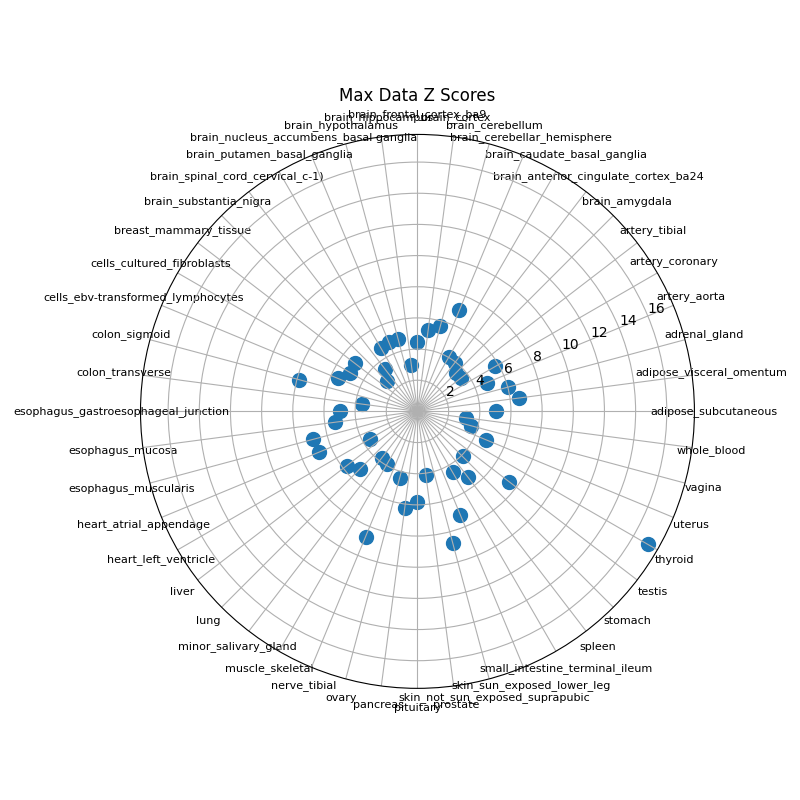
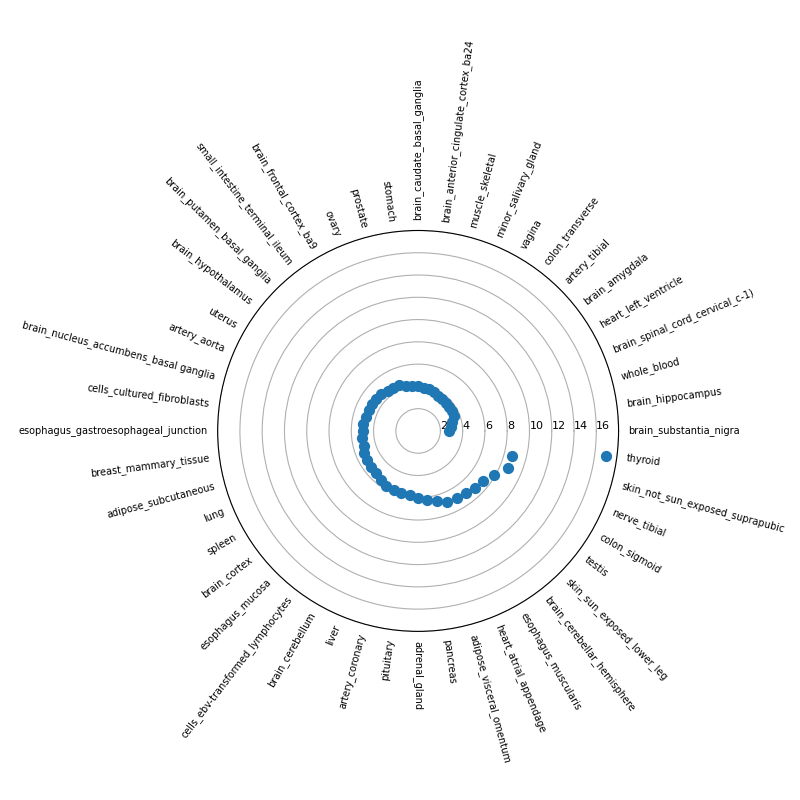
z-score circle plots

diff --git a/src/age_indexing/z_score_visuals.py b/src/age_indexing/z_score_visuals.py
@@ -1,89 +1,130 @@
 #!/usr/bin/env python
 """
-create_z_score_visuals.py
-
-- Located in src/age_indexing
 - Reads "Statistical Significance" sheet from null_age_indexes.xlsx
-  (in data/age_indexes/excel_files)
-- Generates circle plots:
-    * min_z_scores.png
-    * max_z_scores.png
-- Generates bar charts:
-    * min_z_scores_bar.png
-    * max_z_scores_bar.png
-- Outputs saved to visuals/ at project root
+- Generates:
+    • visuals/min_z_scores.png
+    • visuals/max_z_scores.png
+    • visuals/min_z_scores_bar.png
+    • visuals/max_z_scores_bar.png
 """
 import os
-import pandas as pd
 import numpy as np
+import pandas as pd
 import matplotlib.pyplot as plt
 
+
+def create_circle_plot(values, labels, output_path, sort_by_magnitude=True):
+    orig = np.array(values, dtype=float)
+    if sort_by_magnitude:
+        idx = np.argsort(np.abs(orig))
+        r = np.abs(orig[idx])
+    else:
+        idx = np.argsort(orig)
+        r = orig[idx]
+
+    lbls = labels[idx]
+    N = len(r)
+    angles = np.linspace(0, 2 * np.pi, N, endpoint=False)
+
+    # determine ring positions
+    max_r = r.max()
+    ring_max = int(np.ceil(max_r / 2)) * 2
+    rings = np.arange(2, ring_max + 1, 2)
+
+    fig = plt.figure(figsize=(8, 8))
+    ax = fig.add_subplot(111, polar=True)
+    ax.scatter(angles, r, s=50, zorder=2)
+
+    # radial rings
+    ax.set_yticks(rings)
+    labels_rings = [f"{int(rt)}" for rt in rings]
+    labels_rings[-1] = ''  # omit outermost ring label
+    ax.set_yticklabels(labels_rings, fontsize=8)
+    ax.set_ylim(0, ring_max)
+    ax.set_rlabel_position(0)
+    ax.set_xticks([])
+
+    # tissue names on outer ring
+    label_radius = ring_max * 1.05
+    for angle, lbl in zip(angles, lbls):
+        deg = np.rad2deg(angle)
+        rot = deg
+        if 90 < deg < 270:
+            rot += 180
+        if rot > 180:
+            rot -= 360
+        ha = 'left' if (deg <= 90 or deg >= 270) else 'right'
+
+        ax.text(
+            angle, label_radius, lbl,
+            rotation=rot,
+            rotation_mode='anchor',
+            ha=ha,
+            va='center',
+            fontsize=7,
+            zorder=3
+        )
+
+    plt.tight_layout()
+    fig.savefig(output_path)
+    plt.close(fig)
+
+
+def create_bar_graph(values, labels, title, ylabel, output_path):
+    fig, ax = plt.subplots(figsize=(10, 6))
+    ax.bar(labels, values, zorder=2)
+    ax.set_xticklabels(labels, rotation=45, ha='right')
+    ax.set_xlabel('Tissue')
+    ax.set_ylabel(ylabel)
+    ax.set_title(title)
+    plt.tight_layout()
+    fig.savefig(output_path)
+    plt.close(fig)
+
+
 def main():
-    # Paths setup
-    script_dir = os.path.dirname(__file__)
-    project_root = os.path.abspath(os.path.join(script_dir, '..', '..'))
+    # set up paths
+    here = os.path.dirname(__file__)
+    project = os.path.abspath(os.path.join(here, '..', '..'))
     excel_path = os.path.join(
-        project_root, 'data', 'age_indexes', 'excel_files',
+        project, 'data', 'age_indexes', 'excel_files',
         'null_age_indexes.xlsx'
     )
-    visuals_dir = os.path.join(project_root, 'visuals')
-    os.makedirs(visuals_dir, exist_ok=True)
+    out = os.path.join(project, 'visuals')
+    os.makedirs(out, exist_ok=True)
 
-    # Read statistical significance sheet
+    # load
     df = pd.read_excel(excel_path, sheet_name='Statistical Significance')
-    tissues = df['Tissue'].astype(str)
+    tissues = df['Tissue'].astype(str).values
     min_z = df['Min Data Z Score'].astype(float).values
     max_z = df['Max Data Z Score'].astype(float).values
 
-    # Compute angles for circle plots
-    N = len(tissues)
-    angles = np.linspace(0, 2*np.pi, N, endpoint=False)
+    # circle plots
+    create_circle_plot(
+        min_z, tissues,
+        os.path.join(out, 'min_z_scores.png'),
+        sort_by_magnitude=True
+    )
+    create_circle_plot(
+        max_z, tissues,
+        os.path.join(out, 'max_z_scores.png'),
+        sort_by_magnitude=False
+    )
 
-    # Circle plot: Min Z scores
-    fig = plt.figure(figsize=(8,8))
-    ax = fig.add_subplot(111, polar=True)
-    ax.scatter(angles, min_z, s=100)
-    ax.set_xticks(angles)
-    ax.set_xticklabels(tissues, fontsize=8)
-    ax.set_title('Min Data Z Scores')
-    plt.tight_layout()
-    fig.savefig(os.path.join(visuals_dir, 'min_z_scores.png'))
-    plt.close(fig)
+    # bar graphs
+    create_bar_graph(
+        min_z, tissues,
+        "Min Data Z Score by Tissue", "Min Data Z Score",
+        os.path.join(out, 'min_z_scores_bar.png')
+    )
+    create_bar_graph(
+        max_z, tissues,
+        "Max Data Z Score by Tissue", "Max Data Z Score",
+        os.path.join(out, 'max_z_scores_bar.png')
+    )
 
-    # Circle plot: Max Z scores
-    fig = plt.figure(figsize=(8,8))
-    ax = fig.add_subplot(111, polar=True)
-    ax.scatter(angles, max_z, s=100)
-    ax.set_xticks(angles)
-    ax.set_xticklabels(tissues, fontsize=8)
-    ax.set_title('Max Data Z Scores')
-    plt.tight_layout()
-    fig.savefig(os.path.join(visuals_dir, 'max_z_scores.png'))
-    plt.close(fig)
+    print(f"Z-score visuals created in {out}")
 
-    # Bar chart: Min Z scores
-    fig, ax = plt.subplots(figsize=(10,6))
-    ax.bar(tissues, min_z)
-    ax.set_xticklabels(tissues, rotation=45, ha='right')
-    ax.set_xlabel('Tissue')
-    ax.set_ylabel('Min Data Z Score')
-    ax.set_title('Min Data Z Score by Tissue')
-    plt.tight_layout()
-    fig.savefig(os.path.join(visuals_dir, 'min_z_scores_bar.png'))
-    plt.close(fig)
-
-    # Bar chart: Max Z scores
-    fig, ax = plt.subplots(figsize=(10,6))
-    ax.bar(tissues, max_z)
-    ax.set_xticklabels(tissues, rotation=45, ha='right')
-    ax.set_xlabel('Tissue')
-    ax.set_ylabel('Max Data Z Score')
-    ax.set_title('Max Data Z Score by Tissue')
-    plt.tight_layout()
-    fig.savefig(os.path.join(visuals_dir, 'max_z_scores_bar.png'))
-    plt.close(fig)
-
-    print(f"Z-score visuals created in {visuals_dir}")
 
 if __name__ == '__main__':
     main()
